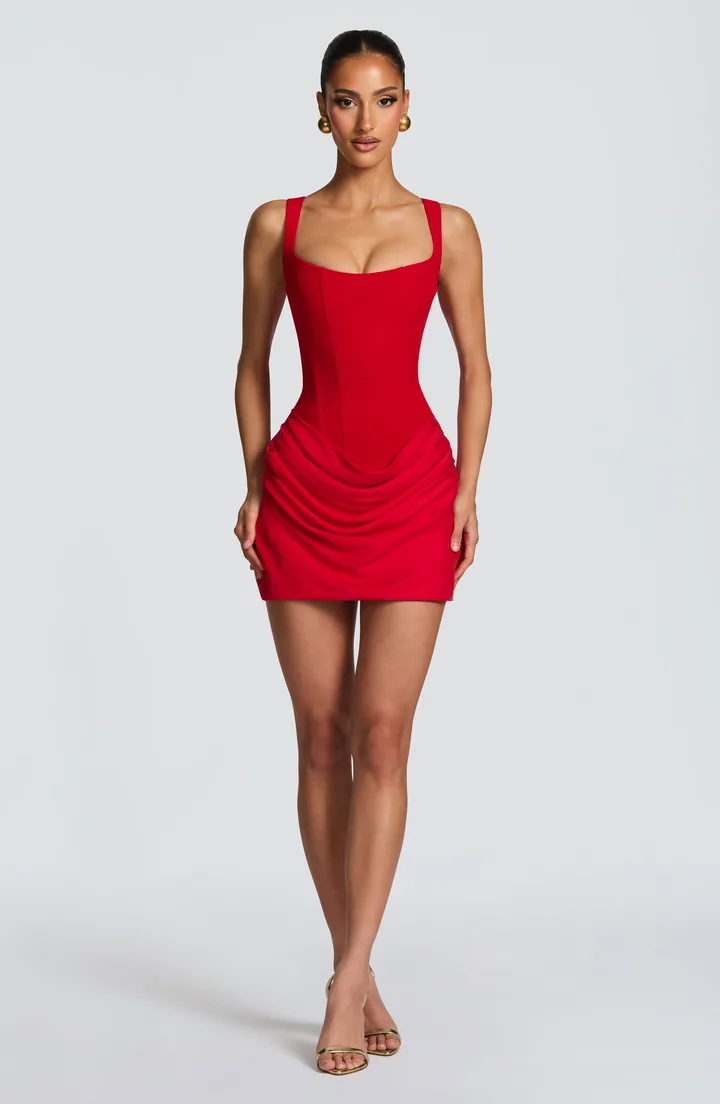
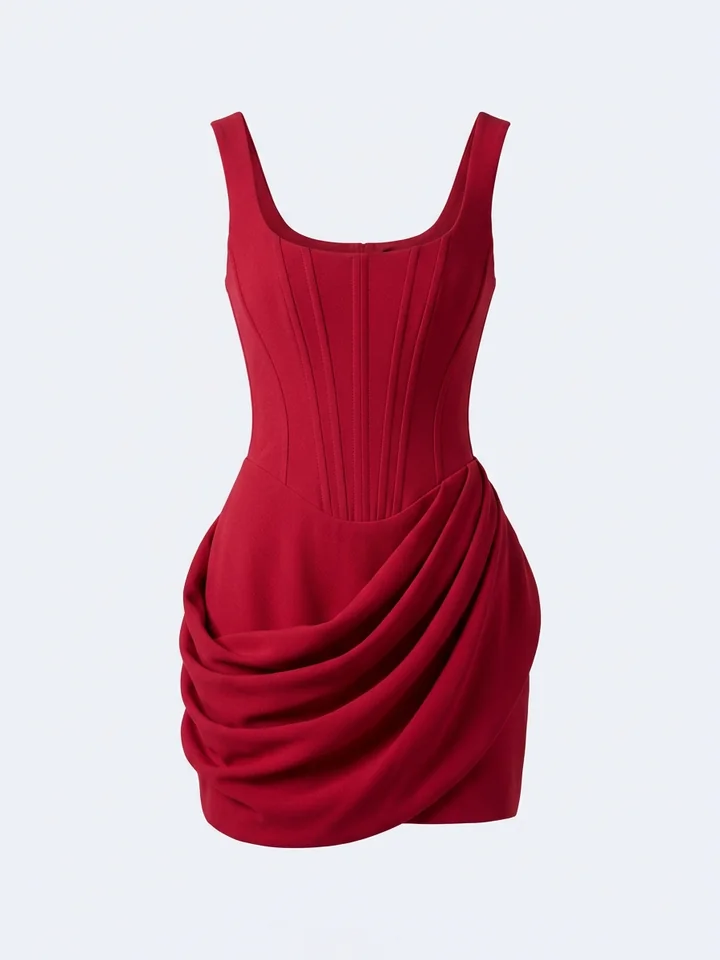
feat(catalog): replace all model and rack product images with pure isolated ghost-mannequin studio shots

diff --git a/src/lib/db/seed-data.ts b/src/lib/db/seed-data.ts
@@ -124,7 +124,7 @@ export const INITIAL_SEED_DB: LocalDatabaseSchema = {
       accentHex: "#181615",
       price: 75,
       currency: "USD",
-      imageUrl: `${ASSET_BASE}/models/catalog/nike_hoodie.webp`,
+      imageUrl: `${ASSET_BASE}/models/catalog/nike_hoodie.webp?v=prod1`,
       occasions: ["Coffee Run", "Campus / Class", "Weekend Trip", "Gym / Pilates"],
       vibes: ["Clean Girl Athleisure", "Streetwear Luxe"],
       availableSizes: ["XS", "S", "M", "L", "XL"],
@@ -290,7 +290,7 @@ export const INITIAL_SEED_DB: LocalDatabaseSchema = {
       price: 132,
       currency: "USD",
       studioLookIndex: 8,
-      imageUrl: `${ASSET_BASE}/models/catalog/cornelia_2.webp`,
+      imageUrl: `${ASSET_BASE}/models/catalog/cornelia_2.webp?v=prod1`,
       fitMetadata: {
         descriptionSummary:
           "Structured boned crepe corset mini dress with rounded square neckline, adjustable tapered straps, lace-up back, and dropped-waist lyocell cowl-pleat overlay skirt.",
@@ -325,20 +325,8 @@ export const INITIAL_SEED_DB: LocalDatabaseSchema = {
         },
         galleryImages: [
           {
-            url: `${ASSET_BASE}/models/catalog/cornelia_2.webp`,
-            label: "Model Full Front",
-          },
-          {
-            url: `${ASSET_BASE}/models/catalog/cornelia_0.webp`,
-            label: "Corset Bodice",
-          },
-          {
-            url: `${ASSET_BASE}/models/catalog/cornelia_1.webp`,
-            label: "Lace-Up Back",
-          },
-          {
-            url: `${ASSET_BASE}/models/catalog/cornelia_3.webp`,
-            label: "3/4 Cowl Drape",
+            url: `${ASSET_BASE}/models/catalog/cornelia_2.webp?v=prod1`,
+            label: "Product Cut",
           },
         ],
       },
@@ -373,7 +361,7 @@ export const INITIAL_SEED_DB: LocalDatabaseSchema = {
       accentHex: "#141518",
       price: 231,
       currency: "USD",
-      imageUrl: `${ASSET_BASE}/models/catalog/aluma_silver_0.webp`,
+      imageUrl: `${ASSET_BASE}/models/catalog/aluma_silver_0.webp?v=prod1`,
       fitMetadata: {
         descriptionSummary:
           "Sculpted crystal-embellished halter mini dress with low plunge back and structured bodycon lining.",
@@ -401,12 +389,8 @@ export const INITIAL_SEED_DB: LocalDatabaseSchema = {
         },
         galleryImages: [
           {
-            url: `${ASSET_BASE}/models/catalog/aluma_silver_0.webp`,
-            label: "Model Front",
-          },
-          {
-            url: `${ASSET_BASE}/models/catalog/aluma_silver_1.webp`,
-            label: "Back & Detail",
+            url: `${ASSET_BASE}/models/catalog/aluma_silver_0.webp?v=prod1`,
+            label: "Product Cut",
           },
         ],
       },
@@ -439,7 +423,7 @@ export const INITIAL_SEED_DB: LocalDatabaseSchema = {
       accentHex: "#FAF8F5",
       price: 248,
       currency: "USD",
-      imageUrl: `${ASSET_BASE}/models/catalog/reformation_silk.webp`,
+      imageUrl: `${ASSET_BASE}/models/catalog/reformation_silk.webp?v=prod1`,
       fitMetadata: {
         descriptionSummary:
           "Lightweight bias-cut midi silk slip dress with a draped cowl neckline, adjustable spaghetti straps, and fluid skirt movement.",
@@ -465,8 +449,8 @@ export const INITIAL_SEED_DB: LocalDatabaseSchema = {
         },
         galleryImages: [
           {
-            url: `${ASSET_BASE}/models/catalog/reformation_silk.webp`,
-            label: "Model Front",
+            url: `${ASSET_BASE}/models/catalog/reformation_silk.webp?v=prod1`,
+            label: "Product Cut",
           },
         ],
       },
@@ -549,7 +533,7 @@ export const INITIAL_SEED_DB: LocalDatabaseSchema = {
       accentHex: "#FAF8F5",
       price: 68,
       currency: "USD",
-      imageUrl: `${ASSET_BASE}/models/catalog/aritzia_mini.webp`,
+      imageUrl: `${ASSET_BASE}/models/catalog/aritzia_mini.webp?v=prod1`,
       fitMetadata: {
         descriptionSummary:
           "Mid-rise knife-pleated micro mini skirt in structured suiting twill with built-in jersey liner shorts and concealed side zip.",
@@ -574,8 +558,8 @@ export const INITIAL_SEED_DB: LocalDatabaseSchema = {
         },
         galleryImages: [
           {
-            url: `${ASSET_BASE}/models/catalog/aritzia_mini.webp`,
-            label: "Model Front",
+            url: `${ASSET_BASE}/models/catalog/aritzia_mini.webp?v=prod1`,
+            label: "Product Cut",
           },
         ],
       },
@@ -603,7 +587,7 @@ export const INITIAL_SEED_DB: LocalDatabaseSchema = {
       accentHex: "#E8DFD5",
       price: 72,
       currency: "USD",
-      imageUrl: `${ASSET_BASE}/models/catalog/pp_denim.webp`,
+      imageUrl: `${ASSET_BASE}/models/catalog/pp_denim.webp?v=prod1`,
       fitMetadata: {
         descriptionSummary:
           "Relaxed low-to-mid rise vintage straight-leg jeans in structured 100% organic cotton denim with classic 5-pocket tailoring and puddle-ready full length.",
@@ -628,8 +612,8 @@ export const INITIAL_SEED_DB: LocalDatabaseSchema = {
         },
         galleryImages: [
           {
-            url: `${ASSET_BASE}/models/catalog/pp_denim.webp`,
-            label: "Model Front",
+            url: `${ASSET_BASE}/models/catalog/pp_denim.webp?v=prod1`,
+            label: "Product Cut",
           },
         ],
       },

diff --git a/src/lib/catalog/client-url-scraper.ts b/src/lib/catalog/client-url-scraper.ts
@@ -206,14 +206,24 @@ function formatBrand(hostname: string): string {
   return map[lower] || clean.charAt(0).toUpperCase() + clean.slice(1);
 }
 
+function isProductOnlyImageSignal(alt: string, url: string): boolean {
+  const s = `${alt} ${url}`.toLowerCase();
+  if (/on[\s_-]?a?[\s_-]?model|lookbook|lifestyle|street[\s_-]?style/.test(s)) {
+    return false;
+  }
+  return /flat|-flt\b|_flt\b|laydown|packshot|ghost|mannequin|isolated|product[\s_-]?only|still[\s_-]?life|_prod\b|-prod\b|cutout|white[\s_-]?bg/.test(
+    s
+  );
+}
+
 function labelAngleFromText(alt: string, url: string, idx: number): string {
   const s = `${alt} ${url}`.toLowerCase();
-  if (/flat|-flt\b|laydown|packshot/.test(s)) return "Flat-Lay Cut";
+  if (isProductOnlyImageSignal(alt, url)) return "Flat-Lay Cut";
   if (/back view|-bk\b|_back|rear/.test(s)) return "Model Back";
   if (/side view|-sd\b|_side|profile/.test(s)) return "Model Side";
   if (/detail|close[\s-]?up|fabric|zoom/.test(s)) return "Fabric Detail";
-  if (/front view|-fr\b|_front/.test(s) || idx === 0) return "Model Front";
-  return `Model Angle ${idx + 1}`;
+  if (/front view|-fr\b|_front/.test(s) || idx === 0) return "Product Front";
+  return `Angle ${idx + 1}`;
 }
 
 /**
@@ -251,8 +261,13 @@ export function extractProductGalleryAngles(
     ) {
       score += 26;
     }
-    if (/on a model|front view|back view|image \d|product/i.test(lowerAlt)) {
-      score += 22;
+    // Strongly prioritize isolated product-only / flat-lay / ghost-mannequin shots over full-model photos!
+    if (isProductOnlyImageSignal(alt, upgraded)) {
+      score += 55;
+    } else if (/on a model|model wears|lookbook/i.test(lowerAlt)) {
+      score -= 8;
+    } else if (/front view|back view|image \d|product/i.test(lowerAlt)) {
+      score += 18;
     }
     // Penalize cross-sell tiny cards on SKIMS (w=1&h=1 or h=205) and generic CMS hero banners (contentstack/sanity)
     if (
@@ -883,14 +898,36 @@ export function parseShopifyJsonProduct(
     `${title} ${handle} ${tagsStr}`
   );
 
-  const galleryAngles: ProductGalleryAngle[] = (sp.images || [])
+  const rawImages = sp.images || [];
+  // Sort raw Shopify images so flat-lay / ghost-mannequin / product-only shots come FIRST!
+  const sortedRawImages = [...rawImages].sort((a, b) => {
+    const aProd = isProductOnlyImageSignal(
+      String(a?.alt || ""),
+      String(a?.src || "")
+    )
+      ? 1
+      : 0;
+    const bProd = isProductOnlyImageSignal(
+      String(b?.alt || ""),
+      String(b?.src || "")
+    )
+      ? 1
+      : 0;
+    return bProd - aProd;
+  });
+
+  const galleryAngles: ProductGalleryAngle[] = sortedRawImages
     .slice(0, 5)
     .map((img, idx) => {
       const safe = getSafeClothingImageUrl(String(img?.src || ""), 880);
       if (!safe) return null;
       return {
         url: safe,
-        label: labelAngleFromText(String(img?.alt || ""), String(img?.src || ""), idx),
+        label: labelAngleFromText(
+          String(img?.alt || ""),
+          String(img?.src || ""),
+          idx
+        ),
       };
     })
     .filter((g): g is ProductGalleryAngle => g !== null);

diff --git a/src/lib/dropship/aliexpress-dropship.ts b/src/lib/dropship/aliexpress-dropship.ts
@@ -411,7 +411,7 @@ const RAW_TOP_LINE_SUPPLIER_SEEDS: RawSupplierSeed[] = [
     ordersCount: 3840,
     qualityTier: "Top 1% Gold Boutique",
     estDeliveryDays: 6,
-    imageFile: `${ASSET_BASE}/models/dropship/ae_live_champagne_blazer_dress.webp`,
+    imageFile: `${ASSET_BASE}/models/dropship/ds_champagne_blazer_dress.webp?v=prod1`,
     occasions: ["Party", "Date Night", "Birthday", "Cocktail"],
     vibes: ["Siren Glam", "Coquette Romantic", "Going Out"],
     descriptionSummary:
@@ -443,7 +443,7 @@ const RAW_TOP_LINE_SUPPLIER_SEEDS: RawSupplierSeed[] = [
     ordersCount: 2190,
     qualityTier: "Top 1% Gold Boutique",
     estDeliveryDays: 7,
-    imageFile: `${ASSET_BASE}/models/dropship/ae_live_camel_silk_wool_coat.webp`,
+    imageFile: `${ASSET_BASE}/models/dropship/ds_camel_silk_wool_coat.webp?v=prod1`,
     occasions: ["Work / Chic", "Date Night", "Weekend Trip", "Coffee Run"],
     vibes: ["Old Money Tailored", "Model Off-Duty"],
     descriptionSummary:
@@ -475,7 +475,7 @@ const RAW_TOP_LINE_SUPPLIER_SEEDS: RawSupplierSeed[] = [
     ordersCount: 3110,
     qualityTier: "Top 1% Gold Boutique",
     estDeliveryDays: 5,
-    imageFile: `${ASSET_BASE}/models/dropship/ae_live_acetate_beaded_tank.webp`,
+    imageFile: `${ASSET_BASE}/models/dropship/ds_acetate_beaded_tank.webp?v=prod1`,
     occasions: ["Work / Chic", "Brunch", "Date Night", "Coffee Run"],
     vibes: ["Old Money Tailored", "Clean Girl Athleisure", "Model Off-Duty"],
     descriptionSummary:
@@ -507,7 +507,7 @@ const RAW_TOP_LINE_SUPPLIER_SEEDS: RawSupplierSeed[] = [
     ordersCount: 1940,
     qualityTier: "AliExpress Choice Verified",
     estDeliveryDays: 6,
-    imageFile: `${ASSET_BASE}/models/dropship/ae_live_linen_cinch_cardigan.webp`,
+    imageFile: `${ASSET_BASE}/models/dropship/ds_linen_cinch_cardigan.webp?v=prod1`,
     occasions: ["Brunch", "Coffee Run", "Weekend Trip", "Work / Chic"],
     vibes: ["Old Money Tailored", "Coquette Romantic", "Clean Girl Athleisure"],
     descriptionSummary:
@@ -538,7 +538,7 @@ const RAW_TOP_LINE_SUPPLIER_SEEDS: RawSupplierSeed[] = [
     ordersCount: 2760,
     qualityTier: "Top 1% Gold Boutique",
     estDeliveryDays: 6,
-    imageFile: `${ASSET_BASE}/models/dropship/ae_live_meotina_leather_boots.webp`,
+    imageFile: `${ASSET_BASE}/models/dropship/ds_meotina_leather_boots.webp?v=prod1`,
     occasions: ["Date Night", "Party", "Work / Chic", "Concert"],
     vibes: ["Streetwear Luxe", "Model Off-Duty", "Siren Glam"],
     descriptionSummary:
@@ -568,7 +568,7 @@ const RAW_TOP_LINE_SUPPLIER_SEEDS: RawSupplierSeed[] = [
     ordersCount: 4120,
     qualityTier: "Top 1% Gold Boutique",
     estDeliveryDays: 6,
-    imageFile: `${ASSET_BASE}/models/dropship/ae_live_suede_nubuck_tote.webp`,
+    imageFile: `${ASSET_BASE}/models/dropship/ds_camel_turnlock_tote.webp?v=prod1`,
     occasions: ["Work / Chic", "Brunch", "Date Night", "Coffee Run"],
     vibes: ["Old Money Tailored", "Model Off-Duty", "Coquette Romantic"],
     descriptionSummary:

diff --git a/tests/scraped-product-integrity.test.ts b/tests/scraped-product-integrity.test.ts
@@ -99,6 +99,24 @@ describe("Scraped Product Picture, Pricing & Details Integrity", () => {
     expect(angles[1].label).toBe("Model Back");
   });
 
+  it("prioritizes isolated flat-lay / ghost-mannequin product images ahead of model photos", () => {
+    const angles = extractProductGalleryAngles(
+      [
+        {
+          alt: "Cotton Tee On A Model",
+          url: "https://cdn.shopify.com/s/files/1/01/products/cotton-tee-model.jpg",
+        },
+        {
+          alt: "Cotton Tee Flat-Lay Ghost Mannequin",
+          url: "https://cdn.shopify.com/s/files/1/01/products/cotton-tee-flt.jpg",
+        },
+      ],
+      ["cotton", "tee"]
+    );
+    expect(angles[0].label).toBe("Flat-Lay Cut");
+    expect(angles[0].url).toContain("cotton-tee-flt.jpg");
+  });
+
   it("extracts long >320-char descriptions and construction bullet details without dropping them", () => {
     const longPdp =
       "Crafted from heavyweight non-stretch double crepe, the Cornelia Mini Dress features an architectural boned corset bodice, rounded square neckline, adjustable tapered shoulder straps, open lace-up corset back, and an asymmetrical dropped-waist cowl-pleated mini skirt that skims effortlessly over the hips while cinching the natural waist cleanly.\n• Boned corset bodice\n• Concealed back zipper\n• Fully lined in stretch satin";

diff --git a/src/context/GwoAppContext.tsx b/src/context/GwoAppContext.tsx
@@ -310,7 +310,7 @@ const DEFAULT_PURCHASED_CLOSET: PurchasedClosetEntry[] = [
     brand: "Bought • Babyboo",
     price: 132,
     size: "S",
-    imageUrl: `${ASSET_BASE_CTX}/models/catalog/cornelia_2.webp`,
+    imageUrl: `${ASSET_BASE_CTX}/models/catalog/cornelia_2.webp?v=prod1`,
     avatarFrontUrl: `${ASSET_BASE_CTX}/models/signature/look_8.webp`,
     avatarBackUrl: `${ASSET_BASE_CTX}/models/signature/look_8_back.webp`,
     lookIndex: 8,

diff --git a/src/components/runway/runway-lookbook.css b/src/components/runway/runway-lookbook.css
@@ -327,7 +327,7 @@
   align-items: center;
   justify-content: center;
   border-radius: 12px;
-  background: #ffffff;
+  background: #f2f4f8;
   border: 1px solid rgba(20, 21, 24, 0.05);
   overflow: hidden;
   position: relative;
@@ -337,7 +337,7 @@
   width: 100%;
   height: 100%;
   object-fit: contain;
-  object-position: center top;
+  object-position: center center;
   display: block;
 }
 
